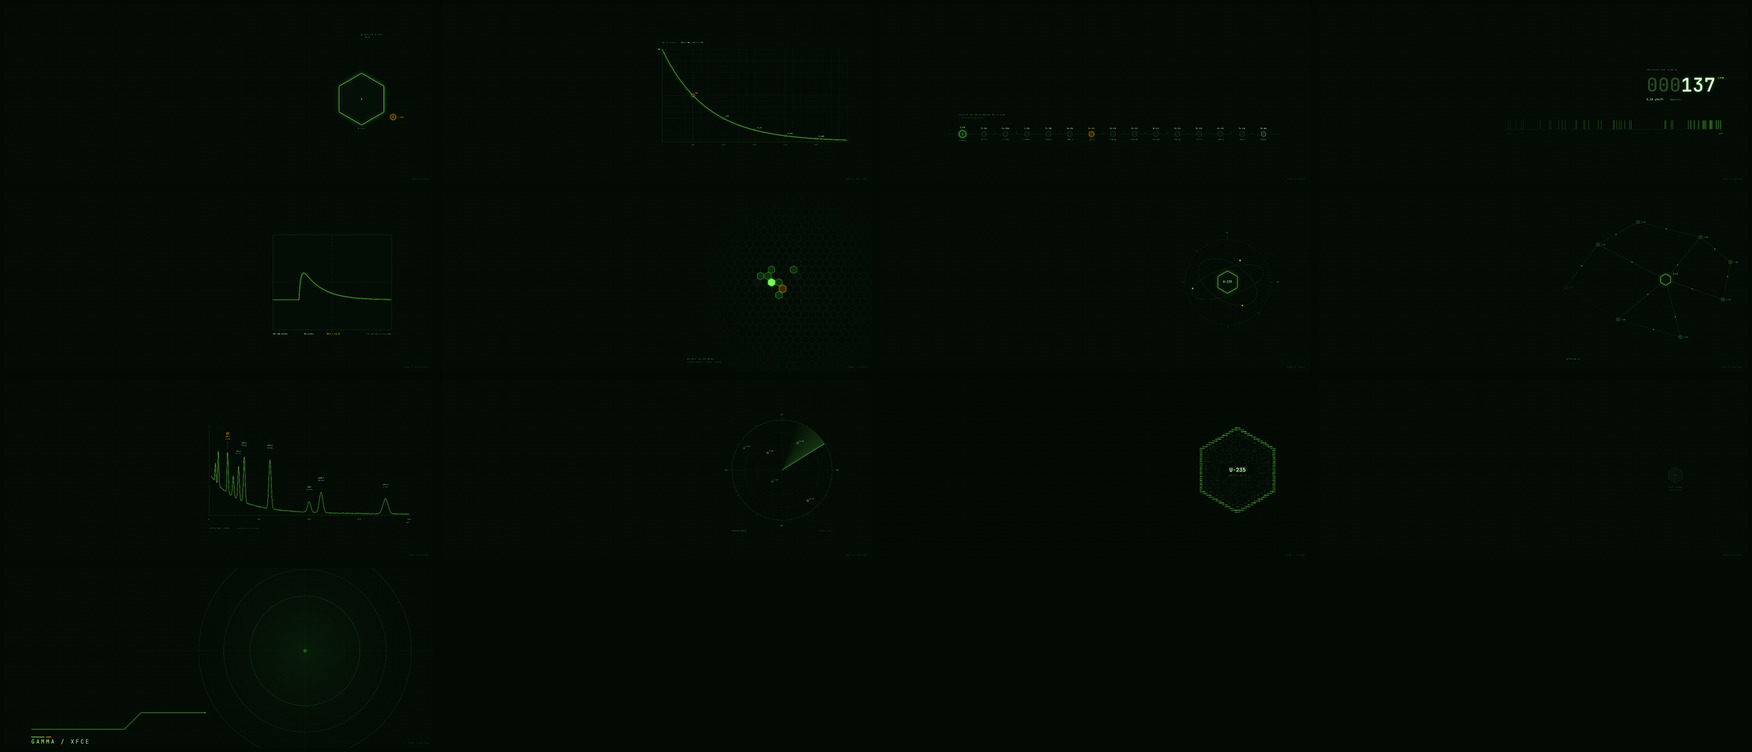
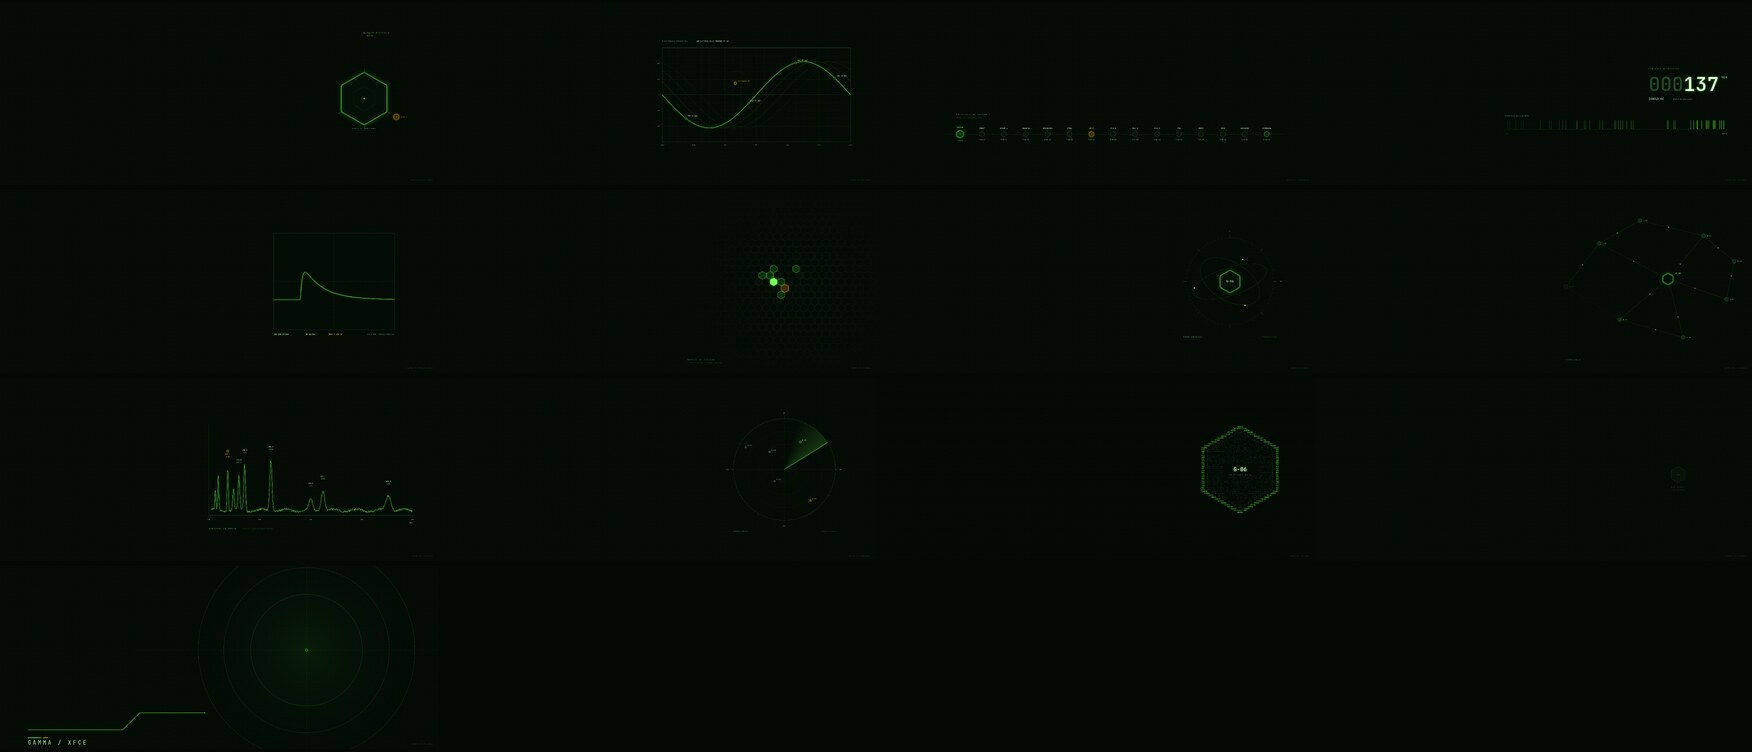
Papéis de parede sem urânio, elementos químicos ou meia-vida
Série 1 refeita como "sala de controle": Sentinela, Rastreio orbital,
Sequência de acesso, Contagem regressiva, eco do transponder, rede orbital,
espectro de rádio interceptado e Fósforo com o nó G-06. O hexágono segue
abstrato, em painéis dos anos 80 de espionagem, militarismo e ficção
científica. Na série 2, a coordenada do Tático deixa de usar a sigla PU.
O gerador wp.html não depende mais do common.css (fontes do sistema).
README e prévias atualizados.

diff --git a/book/fonte/wp.html b/book/fonte/wp.html
@@ -1,7 +1,16 @@
 <!doctype html>
-<!-- GAMMA Debian, gerador de papéis de parede "Contador". Criação original. -->
-<html lang="pt-BR"><head><meta charset="utf-8"><link rel="stylesheet" href="common.css">
-<style>html,body{width:auto;height:auto;background:#030A04}svg{position:absolute;left:0;top:0}</style></head><body>
+<!--
+  Arquivo: book/fonte/wp.html
+  Projeto: GAMMA Debian (tema Contador)
+  Versão: 2.0.0
+  Data e hora: 22/11/2026 19:00 (America/Sao_Paulo)
+  Autoria: lstavares84, com Claude Opus 5.5 (Anthropic). Criação original.
+  2.0.0: série 1 refeita como "sala de controle": hexágono abstrato em painéis
+         dos anos 80, espionagem, militarismo e ficção científica.
+  Uso: firefox --headless --window-size=W,H --screenshot saida.png "file://.../wp.html?n=1&w=W&h=H"
+-->
+<html lang="pt-BR"><head><meta charset="utf-8">
+<style>html,body{margin:0;padding:0;overflow:hidden;background:#030A04}svg{position:absolute;left:0;top:0}</style></head><body>
 <script>
 const q=new URLSearchParams(location.search); const N=+q.get('n')||1, W=+q.get('w')||3440, H=+q.get('h')||1440;
 for(const el of [document.documentElement,document.body]){el.style.width=W+'px';el.style.height=H+'px'}
@@ -27,55 +36,59 @@ add('rect',{x:-100,y:-100,width:3640,height:1640,fill:'url(#m)'});
 function sig(num,name){T(3400,1404,`GAMMA   ${String(num).padStart(2,'0')}   ${name}`,{a:'end',c:C.dim,z:11,ls:3})}
 
 const S={
-1(){ // Núcleo
+1(){ // Sentinela
   add('line',{x1:2860,y1:250,x2:2860,y2:548,stroke:C.dim,'stroke-width':1.5,'stroke-dasharray':'2 7'});
   add('circle',{cx:2860,cy:244,r:5,fill:'none',stroke:C.sub,'stroke-width':1.5});
   hex(2860,760,205,'#041006',C.acc,2.5,G(C.acc,8)); hex(2860,760,186,'none',C.dim,1);
+  hex(2860,760,96,'none',C.neb,1.2).setAttribute('stroke-dasharray','5 7');
+  for(let i=0;i<6;i++){const t=(-90+60*i)*Math.PI/180; add('line',{x1:2860+214*Math.cos(t),y1:760+214*Math.sin(t),x2:2860+236*Math.cos(t),y2:760+236*Math.sin(t),stroke:C.neb,'stroke-width':1.5})}
   add('circle',{cx:2860,cy:760,r:4,fill:C.acc,style:G(C.acc,5)});
   add('line',{x1:3040,y1:862,x2:3092,y2:892,stroke:C.dim,'stroke-dasharray':'2 5'});
   hex(3112,904,24,C.waf,C.amb,1.5,G(C.amb,5)); add('circle',{cx:3112,cy:904,r:2.5,fill:C.amb});
-  T(2884,248,'NÚCLEO U-235',{ls:4}); T(2884,270,'06-A',{c:C.amb,z:12,ls:4});
-  T(2860,1000,'U-235',{a:'middle',ls:4}); T(3148,909,'U-238',{c:C.amb,z:12,ls:3}); sig(1,'NÚCLEO');},
+  T(2884,248,'POSTO SENTINELA',{ls:4}); T(2884,270,'06-A',{c:C.amb,z:12,ls:4});
+  T(2860,1000,'VIGÍLIA CONTÍNUA',{a:'middle',ls:4}); T(3148,909,'ELO-2',{c:C.amb,z:12,ls:3}); sig(1,'SENTINELA');},
 
-2(){ // Meia-vida
-  const x0=1760,x1=3240,y0=360,y1=1100, X=t=>x0+(x1-x0)*t/6, Y=v=>y1-(y1-y0)*v;
+2(){ // Rastreio orbital
+  const x0=1760,x1=3240,y0=360,y1=1100, X=l=>x0+(x1-x0)*(l+180)/360, Y=b=>y0+(y1-y0)*(90-b)/180;
   for(let i=0;i<=24;i++)add('line',{x1:x0+(x1-x0)*i/24,y1:y0,x2:x0+(x1-x0)*i/24,y2:y1,stroke:i%4?C.mesh:C.grid,'stroke-width':1});
-  for(let i=0;i<=16;i++)add('line',{x1:x0,y1:y0+(y1-y0)*i/16,x2:x1,y2:y0+(y1-y0)*i/16,stroke:i%4?C.mesh:C.grid,'stroke-width':1});
-  add('path',{d:`M${x0} ${y0-20}V${y1}H${x1+20}`,fill:'none',stroke:C.dim,'stroke-width':1.5});
-  const curve=(k,op,sw)=>{let d='';for(let i=0;i<=300;i++){const t=6*i/300;d+=(i?'L':'M')+X(t).toFixed(1)+' '+Y(Math.pow(2,-t)*k).toFixed(1)}
-    add('path',{d,fill:'none',stroke:C.acc,'stroke-width':sw,opacity:op,style:op>.9?G(C.acc,6):''})};
-  [.93,.96,.985].forEach((k,i)=>curve(k,.12+i*.08,1.2)); curve(1,1,2.5);
-  const lab=['50%','25%','12,5%','6,25%','3,125%'];
-  for(let t=1;t<=5;t++){const x=X(t),y=Y(Math.pow(2,-t));
-    add('path',{d:`M${x} ${y}V${y1}M${x0} ${y}H${x}`,stroke:t==1?'#6b5000':C.dim,'stroke-dasharray':'2 6',fill:'none'});
-    hex(x,y,t==1?11:8,t==1?C.waf:C.okf,t==1?C.amb:C.acc,1.5,t==1?G(C.amb,5):'');
-    T(x,y1+30,t==1?'T½':t+'T½',{a:'middle',c:t==1?C.amb:C.sub,z:13,ls:2});
-    T(x+18,y-14,lab[t-1],{c:t==1?C.amb:C.ice,z:13});}
-  T(x0,y0-48,'MEIA-VIDA',{ls:5,z:13}); T(x0+150,y0-48,'N(t) = N0 × 2^(-t / T½)',{c:C.ice,z:13});
-  T(x0-16,Y(1)+5,'N0',{a:'end',c:C.ice,z:13}); sig(2,'MEIA-VIDA');},
+  for(let i=0;i<=12;i++)add('line',{x1:x0,y1:y0+(y1-y0)*i/12,x2:x1,y2:y0+(y1-y0)*i/12,stroke:i==6?C.dim:i%2?C.mesh:C.grid,'stroke-width':1});
+  add('rect',{x:x0,y:y0,width:x1-x0,height:y1-y0,fill:'none',stroke:C.dim,'stroke-width':1.5});
+  const lat=(l,f)=>63.4*Math.sin((l-f)*Math.PI/180);
+  const trilha=(f,op,sw,glow)=>{let d='';for(let l=-180;l<=180;l+=1.5)d+=(l==-180?'M':'L')+X(l).toFixed(1)+' '+Y(lat(l,f)).toFixed(1);
+    add('path',{d,fill:'none',stroke:C.acc,'stroke-width':sw,opacity:op,style:glow?G(C.acc,6):''})};
+  [72,48,24].forEach((f,i)=>trilha(f,.12+i*.08,1.2)); trilha(0,1,2.5,1);
+  const est=[-40,22]; add('circle',{cx:X(est[0]),cy:Y(est[1]),r:96,fill:'none',stroke:'#6b5000','stroke-dasharray':'3 6'});
+  hex(X(est[0]),Y(est[1]),11,C.waf,C.amb,1.5,G(C.amb,5)); T(X(est[0])+20,Y(est[1])-14,'ESTAÇÃO 07',{c:C.amb,z:13,ls:2});
+  const aos=['AOS 04:12Z','AOS 05:49Z','AOS 07:26Z','AOS 09:03Z'];
+  [-135,-15,75,150].forEach((l,i)=>{const x=X(l),y=Y(lat(l,0)); hex(x,y,8,C.okf,C.acc,1.5); T(x+16,y-14,aos[i],{c:C.ice,z:13})});
+  [-180,-120,-60,0,60,120,180].forEach(l=>T(X(l),y1+30,(l>0?'+':'')+l+'°',{a:'middle',c:C.sub,z:12}));
+  [60,30,0,-30,-60].forEach(b=>T(x0-14,Y(b)+5,(b>0?'+':'')+b+'°',{a:'end',c:C.sub,z:12}));
+  T(x0,y0-48,'RASTREIO ORBITAL',{ls:5,z:13}); T(x0+270,y0-48,'SAT K-7   INCL 63,4°   PERÍODO 97 min',{c:C.ice,z:13});
+  sig(2,'RASTREIO');},
 
-3(){ // Cadeia do U-238
-  const ch=[['U-238','4,47e9 a','α'],['Th-234','24,1 d','β'],['Pa-234m','1,17 min','β'],['U-234','2,45e5 a','α'],['Th-230','7,54e4 a','α'],['Ra-226','1600 a','α'],
-   ['Rn-222','3,82 d','α'],['Po-218','3,10 min','α'],['Pb-214','26,8 min','β'],['Bi-214','19,9 min','β'],['Po-214','164 µs','α'],['Pb-210','22,2 a','β'],['Bi-210','5,01 d','β'],['Po-210','138 d','α'],['Pb-206','estável','']];
+3(){ // Sequência de acesso
+  const ch=[['INÍCIO','T+00:00'],['IDENT','T+00:04'],['CHAVE A','T+00:11'],['CHAVE B','T+00:17'],['SINCRONIA','T+00:26'],['CIFRA','T+00:38'],
+   ['RELÉ','T+00:51'],['ELO 1','T+01:02'],['ELO 2','T+01:09'],['ELO 3','T+01:15'],['ECO','T+01:24'],['VERIF','T+01:37'],['SELO','T+01:48'],['REGISTRO','T+01:56'],['LIBERADO','T+02:03']];
   const y=1040, x0=660, dx=172;
   add('line',{x1:x0-120,y1:y,x2:x0+dx*14+120,y2:y,stroke:C.dim,'stroke-width':1});
-  ch.forEach(([n,t,m],i)=>{const x=x0+i*dx; const first=i==0,last=i==14,gas=n=='Rn-222';
-    const f=first?C.okf:last?'#0E2A10':gas?C.waf:C.ndf, s=first?C.acc:last?C.ice:gas?C.amb:C.neb;
-    hex(x,y,first?30:22,f,s,first?2:1.4,first?G(C.acc,6):gas?G(C.amb,4):'');
+  ch.forEach(([n,t],i)=>{const x=x0+i*dx; const first=i==0,last=i==14,wa=n=='RELÉ';
+    const f=first?C.okf:last?'#0E2A10':wa?C.waf:C.ndf, s=first?C.acc:last?C.ice:wa?C.amb:C.neb;
+    hex(x,y,first?30:22,f,s,first?2:1.4,first?G(C.acc,6):wa?G(C.amb,4):'');
     if(first)add('circle',{cx:x,cy:y,r:3,fill:C.acc});
-    T(x,y-(first?48:40),n,{a:'middle',c:first?C.acc:gas?C.amb:last?C.white:C.ice,z:14,w:first?700:500});
+    T(x,y-(first?48:40),n,{a:'middle',c:first?C.acc:wa?C.amb:last?C.white:C.ice,z:14,w:first?700:500});
     T(x,y+(first?56:48),t,{a:'middle',c:C.sub,z:12});
-    if(m)T(x+dx/2,y-8,m,{a:'middle',c:C.dim,z:13,f:'Roboto'});});
-  T(x0-30,y-150,'CADEIA DE DECAIMENTO DO U-238',{ls:5,z:13}); T(x0-30,y-126,'14 decaimentos até o chumbo estável',{c:C.dim,z:12,f:'Roboto',w:400});
-  sig(3,'CADEIA');},
+    if(!last)T(x+dx/2,y+5,'›',{a:'middle',c:C.dim,z:16});});
+  T(x0-30,y-150,'PROTOCOLO DE ACESSO 7',{ls:5,z:13}); T(x0-30,y-126,'14 etapas até a liberação do terminal',{c:C.dim,z:12,f:'Roboto',w:400});
+  sig(3,'SEQUÊNCIA');},
 
-4(){ // Contagem
+4(){ // Contagem regressiva
   const x=3180,y=700;
-  const digits='000137'; let xx=x-6*92;
+  const digits='000137'; const by=1000,bx0=1500,bx1=3240; let xx=x-6*92;
   for(const d of digits){const lead=xx<x-3*92-1; T(xx,y,d,{c:lead?C.dim:C.white,z:150,w:500,st:lead?'':G(C.acc,6)});xx+=92;}
-  T(x+18,y-100,'CPM',{c:C.acc,z:22,w:700,ls:4}); T(x-6*92,y-170,'CONTAGEM POR MINUTO',{ls:5,z:13});
-  T(x-6*92,y+70,'0,18 µSv/h',{c:C.ice,z:22}); T(x-6*92+190,y+70,'fundo natural',{c:C.sub,z:14,f:'Roboto',w:400});
-  const by=1000,bx0=1500,bx1=3240; add('line',{x1:bx0,y1:by,x2:bx1,y2:by,stroke:C.dim,'stroke-width':1});
+  T(x+18,y-100,'SEG',{c:C.acc,z:22,w:700,ls:4}); T(x-6*92,y-170,'CONTAGEM REGRESSIVA',{ls:5,z:13});
+  T(x-6*92,y+70,'JANELA 04',{c:C.ice,z:22}); T(x-6*92+190,y+70,'abertura do canal seguro',{c:C.sub,z:14,f:'Roboto',w:400});
+  T(bx0,by-100,'PACOTES RECEBIDOS',{ls:4,z:12});
+  add('line',{x1:bx0,y1:by,x2:bx1,y2:by,stroke:C.dim,'stroke-width':1});
   for(let i=0;i<=29;i++)add('line',{x1:bx0+(bx1-bx0)*i/29,y1:by,x2:bx0+(bx1-bx0)*i/29,y2:by+(i%5?6:12),stroke:C.dim});
   let px=bx0+20; while(px<bx1){const age=(bx1-px)/(bx1-bx0); add('line',{x1:px,y1:by,x2:px,y2:by-70,stroke:C.acc,'stroke-width':2,opacity:(1-age*.85).toFixed(2),style:age<.15?G(C.acc,4):''}); px+=-Math.log(1-rnd())*48+4;}
   T(bx1,by+40,'agora',{a:'end',c:C.sub,z:12}); T(bx0,by+40,'-60 s',{c:C.dim,z:12}); sig(4,'CONTAGEM');},
@@ -91,7 +104,7 @@ const S={
     p+=(i?'L':'M')+(x0+t*d).toFixed(1)+' '+(cy+d*1.5-v*d*3.2).toFixed(1)}add('path',{d:p,fill:'none',stroke:C.acc,'stroke-width':sw,opacity:op,style:glow?G(C.acc,6):''})};
   [.82,.88,.93,.97].forEach((a,i)=>pulse(a,.1+i*.07,1.2)); pulse(1,1,2.4,1);
   T(x0,y1+40,'CH1  200 mV/div',{c:C.ice,z:14}); T(x0+250,y1+40,'50 µs/div',{c:C.ice,z:14}); T(x0+430,y1+40,'TRIG ↑ 120 mV',{c:C.amb,z:14});
-  T(x1,y1+40,'PULSO DO DETECTOR',{a:'end',ls:4,z:13}); sig(5,'OSCILOSCÓPIO');},
+  T(x1,y1+40,'ECO DO TRANSPONDER',{a:'end',ls:4,z:13}); sig(5,'OSCILOSCÓPIO');},
 
 6(){ // Colmeia
   const R=34, sx=Math.sqrt(3)*R, sy=1.5*R;
@@ -110,11 +123,11 @@ const S={
     add('line',{x1:cx+r1*Math.cos(t),y1:cy+r1*Math.sin(t),x2:cx+r2*Math.cos(t),y2:cy+r2*Math.sin(t),stroke:a%45==0?C.neb:C.dim,'stroke-width':1})}
   [[300,110,-18],[260,150,32],[200,200,0]].forEach(([rx,ry,rot],i)=>add('ellipse',{cx,cy,rx,ry,fill:'none',stroke:i==2?C.grid:C.dim,'stroke-width':1.2,transform:`rotate(${rot} ${cx} ${cy})`,'stroke-dasharray':i==2?'3 6':''}));
   hex(cx,cy,88,'#041006',C.acc,2.2,G(C.acc,7)); hex(cx,cy,74,'none',C.dim,1);
-  T(cx,cy+6,'U-235',{a:'middle',c:C.ice,z:24,w:500});
+  T(cx,cy+6,'G-06',{a:'middle',c:C.ice,z:24,w:500});
   const dot=(rx,ry,rot,ang,c)=>{const t=ang*Math.PI/180,x=rx*Math.cos(t),y=ry*Math.sin(t),k=rot*Math.PI/180;
     add('circle',{cx:cx+x*Math.cos(k)-y*Math.sin(k),cy:cy+x*Math.sin(k)+y*Math.cos(k),r:5,fill:c,style:G(c,5)})};
   dot(300,110,-18,200,C.acc); dot(260,150,32,40,C.amb); dot(200,200,0,300,C.ice);
-  T(cx,cy-390,'0°',{a:'middle',c:C.sub,z:12}); T(cx+392,cy+4,'90°',{c:C.sub,z:12}); sig(7,'ÓRBITA');},
+  T(cx,cy-390,'0°',{a:'middle',c:C.sub,z:12}); T(cx-366,cy+440,'REDE ORBITAL',{ls:5,z:13}); T(cx+366,cy+440,'3 satélites em órbita',{a:'end',c:C.dim,z:12,f:'Roboto',w:400}); T(cx+392,cy+4,'90°',{c:C.sub,z:12}); sig(7,'ÓRBITA');},
 
 8(){ // Topologia
   const n=[[2780,700,1],[2240,420],[2400,1020],[3060,360],[3240,860],[2900,1160],[1980,760],[2560,240],[3300,560]];
@@ -126,21 +139,21 @@ const S={
     T(x+(c?60:26),y+(c?-40:5),'N-'+String(i).padStart(2,'0'),{c:nd?C.dim:c?C.acc:C.sub,z:c?14:12,ls:2});});
   T(1980,1340,'TOPOLOGIA',{ls:5,z:13}); sig(8,'TOPOLOGIA');},
 
-9(){ // Espectro gama
-  const x0=1640,x1=3240,y0=380,y1=1080, E=e=>x0+(x1-x0)*e/2000;
+9(){ // Espectro de rádio (banda interceptada)
+  const x0=1640,x1=3240,y0=380,y1=1080, E=e=>x0+(x1-x0)*e/2000, MHz=e=>(100+e*0.2).toFixed(1).replace('.',',');
   for(let e=0;e<=2000;e+=100)add('line',{x1:E(e),y1:y1,x2:E(e),y2:y1+(e%500?6:14),stroke:C.dim});
-  for(let e=0;e<=2000;e+=500)T(E(e),y1+38,e+'',{a:'middle',c:C.sub,z:12});
-  T(x1,y1+64,'keV',{a:'end',c:C.sub,z:12});
+  for(let e=0;e<=2000;e+=500)T(E(e),y1+38,String(100+e*0.2),{a:'middle',c:C.sub,z:12});
+  T(x1,y1+64,'MHz',{a:'end',c:C.sub,z:12});
   add('path',{d:`M${x0} ${y0-20}V${y1}H${x1+20}`,fill:'none',stroke:C.dim,'stroke-width':1.5});
-  const pk=[[63.3,.28],[92.6,.5],[185.7,.62,'U-235',1],[241.9,.32],[295.2,.5,'Pb-214'],[351.9,.66,'Pb-214'],[609.3,.72,'Bi-214'],[1001,.16,'Pa-234m'],[1120.3,.3,'Bi-214'],[1764.5,.22,'Bi-214']];
-  const f=e=>{let v=.55*Math.exp(-e/260)+.06*Math.exp(-e/1400);for(const [c,a] of pk){const s=4+c*.012;v+=a*Math.exp(-((e-c)**2)/(2*s*s))}return v};
-  let d='';for(let e=20;e<=2000;e+=4){const v=f(e)+(rnd()-.5)*.012;d+=(e==20?'M':'L')+E(e).toFixed(1)+' '+(y1-v*.78*(y1-y0)).toFixed(1)}
+  const pk=[[63.3,.28],[92.6,.5],[185.7,.62,'ALVO',1],[241.9,.32],[295.2,.5,'ECO-1'],[351.9,.66,'K-7'],[609.3,.72,'VESPA'],[1001,.16,'ÍRIS'],[1120.3,.3,'CORVO'],[1764.5,.22,'FAROL']];
+  const f=e=>{let v=.07+.02*Math.sin(e/37);for(const [c,a] of pk){const s=4+c*.012;v+=a*Math.exp(-((e-c)**2)/(2*s*s))}return v};
+  let d='';for(let e=20;e<=2000;e+=4){const v=f(e)+(rnd()-.5)*.03;d+=(e==20?'M':'L')+E(e).toFixed(1)+' '+(y1-v*.78*(y1-y0)).toFixed(1)}
   add('path',{d,fill:'none',stroke:C.acc,'stroke-width':1.6,style:G(C.acc,4)});
   pk.filter(p=>p[2]).forEach(([c,a,n,hi])=>{const x=E(c),y=y1-f(c)*.78*(y1-y0)-18;
     add('line',{x1:x,y1:y,x2:x,y2:y-60,stroke:hi?C.amb:C.dim,'stroke-dasharray':'2 4'});
-    T(x,y-92,c.toString().replace('.',','),{a:'middle',c:hi?C.amb:C.ice,z:13}); T(x,y-72,n,{a:'middle',c:hi?C.amb:C.sub,z:12});
+    T(x,y-92,MHz(c),{a:'middle',c:hi?C.amb:C.ice,z:13}); T(x,y-72,n,{a:'middle',c:hi?C.amb:C.sub,z:12});
     if(hi)hex(x,y-112-8,9,C.waf,C.amb,1.4,G(C.amb,4));});
-  T(x0,y1+110,'ESPECTRO GAMA',{ls:5,z:13}); T(x0+220,y1+110,'minério de urânio, picos principais',{c:C.dim,z:12,f:'Roboto',w:400}); sig(9,'ESPECTRO');},
+  T(x0,y1+110,'ESPECTRO DE RÁDIO',{ls:5,z:13}); T(x0+270,y1+110,'banda interceptada, emissores identificados',{c:C.dim,z:12,f:'Roboto',w:400}); sig(9,'ESPECTRO');},
 
 10(){ // Varredura
   const cx=2720,cy=720,R=400;
@@ -163,7 +176,7 @@ const S={
     if(inside(x,y,R)&&!inside(x,y,R-26)){c=C.acc;st=G(C.acc,3)} else if(inside(x,y,R-48)&&!inside(x,y,R-56))c='#2E6A2A';
     else if(inside(x,y,R-56)&&!(Math.abs(y)<46&&Math.abs(x)<140)&&rnd()<.5)c='#143616';
     if(c)add('text',{x:ox+x,y:oy+y+4,fill:c,'text-anchor':'middle',style:st},ch,g);}
-  T(ox,oy+14,'U-235',{a:'middle',c:C.white,z:44,w:700,st:G(C.acc,5)}); T(ox,oy+46,'NÚCLEO  06-A',{a:'middle',c:C.sub,z:13,ls:5});
+  T(ox,oy+14,'G-06',{a:'middle',c:C.white,z:44,w:700,st:G(C.acc,5)}); T(ox,oy+46,'NÓ SELADO  06-A',{a:'middle',c:C.sub,z:13,ls:5});
   add('rect',{x:-100,y:-100,width:3640,height:1640,fill:'url(#scan)'});
   const sp=add('pattern',{id:'scan',width:4,height:3,patternUnits:'userSpaceOnUse'},null,defs); add('rect',{x:0,y:0,width:4,height:1,fill:'rgba(0,0,0,.35)'},null,sp);
   sig(11,'FÓSFORO');},

diff --git a/book/fonte/wp2.html b/book/fonte/wp2.html
@@ -2,8 +2,9 @@
 <!--
   Arquivo: book/fonte/wp2.html
   Projeto: GAMMA Debian (tema Contador)
-  Versão: 1.0.0
-  Data e hora: 14/11/2026 22:30 (America/Sao_Paulo)
+  Versão: 1.0.1
+  Data e hora: 22/11/2026 19:00 (America/Sao_Paulo)
+  1.0.1: coordenada do Tático trocada (23K KQ), sem siglas de elementos.
   Autoria: lstavares84, com Claude Opus 5.5 (Anthropic). Criação original.
   Gerador da série 2 de papéis de parede (14 a 26): militar, espionagem, hacking,
   cyberpunk, ondas e sinais, cósmico e abstrato. Usa as fontes Roboto e
@@ -60,7 +61,7 @@ const S={
   const [tx,ty]=rota[rota.length-1];
   hex(tx,ty,26,C.waf,C.amb,2,G(C.amb,6)); add('circle',{cx:tx,cy:ty,r:3,fill:C.amb});
   [[-1,-1],[1,-1],[1,1],[-1,1]].forEach(([sx,sy])=>add('path',{d:`M${tx+sx*52} ${ty+sy*34}V${ty+sy*52}H${tx+sx*34}`,fill:'none',stroke:C.amb,'stroke-width':2}));
-  T(tx+66,ty-10,'OBJETIVO',{c:C.amb,z:15,w:700,ls:4}); T(tx+66,ty+14,'23K PU 4512 8890',{c:C.ice,z:13});
+  T(tx+66,ty-10,'OBJETIVO',{c:C.amb,z:15,w:700,ls:4}); T(tx+66,ty+14,'23K KQ 4512 8890',{c:C.ice,z:13});
   T(1720,1336,'BASE',{c:C.sub,z:12,ls:3}); hex(1720,1300,10,C.nef,C.neb,1.4);
   const nx=3300,ny=1180; add('path',{d:`M${nx} ${ny-50}L${nx+14} ${ny}L${nx} ${ny-12}L${nx-14} ${ny}Z`,fill:C.acc,opacity:.9}); T(nx,ny-62,'N',{a:'middle',c:C.ice,z:14,w:700});
   add('path',{d:'M2700 1330H3020M2700 1322V1338M2860 1324V1336M3020 1322V1338',stroke:C.sub,'stroke-width':1.5,fill:'none'});

diff --git a/README.md b/README.md
@@ -1,8 +1,8 @@
 <!--
   File / Arquivo: README.md
   Project / Projeto: GAMMA Debian (Contador theme)
-  Version / Versão: 1.1.0
-  Date / Data: 21/11/2026 22:55 (America/Sao_Paulo)
+  Version / Versão: 1.2.0
+  Date / Data: 22/11/2026 19:00 (America/Sao_Paulo)
   Author / Autoria: lstavares84, with / com Claude Opus 5.5 (Anthropic)
 -->
 
@@ -67,13 +67,14 @@ buttons, wallpapers), and state colors have a fixed meaning everywhere:
 
 ### Screenshots
 
-**Series 1, laboratory (01 to 13):** Nucleus, Half-life, Decay chain, Count,
-Oscilloscope, Honeycomb, Orbit, Topology, Gamma spectrum, Sweep, Phosphor,
-Silence and Reticle.
+**Series 1, control room (01 to 13):** Sentinel (watch post), Orbital tracking
+(satellite ground track), Sequence (access protocol), Countdown, Oscilloscope
+(transponder echo), Honeycomb, Orbit (satellite network), Topology, Radio
+spectrum (intercepted band), Sweep (radar), Phosphor, Silence and Reticle.
 
 ![Series 1 wallpapers](docs/wallpapers.jpg)
 
-**Series 2, no nuclear references (14 to 26):** Tactical (military map),
+**Series 2, field operations (14 to 26):** Tactical (military map),
 Triangulation (signal interception), Cipher (one-time pad), Intrusion (hacking),
 Neon (cyberpunk city), Circuit (control board), Spectrogram, Interference,
 Lissajous, Galaxy, Event horizon, Fractal (hexaflake) and Biometrics.
@@ -329,8 +330,6 @@ docs/                  images used in this README
   [Papirus](https://github.com/PapirusDevelopmentTeam/papirus-icon-theme)
   (GPL-3.0) and generated on your machine from the Debian package. No Papirus file
   is distributed in this repository.
-- Half-lives in the U-238 decay chain and the gamma spectrum peaks used in the
-  wallpapers are published physical values.
 
 ---
 
@@ -386,11 +385,13 @@ As imagens e a estrutura de pastas estão na seção em inglês, acima.
 | Telas do GRUB, do Plymouth e de login do LightDM (opcional, precisa de sudo) | `sistema/` | veja [Telas de boot e login](#telas-de-boot-e-login) |
 | Book de identidade visual (PDF de 22 páginas) e mockups | `book/`, `mockups/` | |
 
-**Série 1, laboratório (01 a 13):** Núcleo, Meia-vida, Cadeia, Contagem,
-Osciloscópio, Colmeia, Órbita, Topologia, Espectro, Varredura, Fósforo, Silêncio
-e Retícula.
+**Série 1, sala de controle (01 a 13):** Sentinela (posto de vigília), Rastreio
+(trilha orbital de satélite), Sequência (protocolo de acesso), Contagem
+(regressiva), Osciloscópio (eco do transponder), Colmeia, Órbita (rede de
+satélites), Topologia, Espectro (banda de rádio interceptada), Varredura (radar),
+Fósforo, Silêncio e Retícula.
 
-**Série 2, sem referências nucleares (14 a 26):** Tático (carta militar),
+**Série 2, operações de campo (14 a 26):** Tático (carta militar),
 Triangulação (interceptação de sinal), Cifra (bloco de uso único), Intrusão
 (hacking), Neon (cidade cyberpunk), Circuito (placa de controle), Espectrograma,
 Interferência, Lissajous, Galáxia, Horizonte (de eventos), Fractal (hexafloco) e
@@ -604,5 +605,3 @@ instalados. Os backups nunca são apagados.
   [Papirus](https://github.com/PapirusDevelopmentTeam/papirus-icon-theme)
   (GPL-3.0) e gerados no seu computador a partir do pacote do Debian. Nenhum
   arquivo do Papirus é distribuído neste repositório.
-- As meias-vidas da cadeia do U-238 e os picos do espectro gama usados nos papéis
-  de parede são valores físicos publicados.
